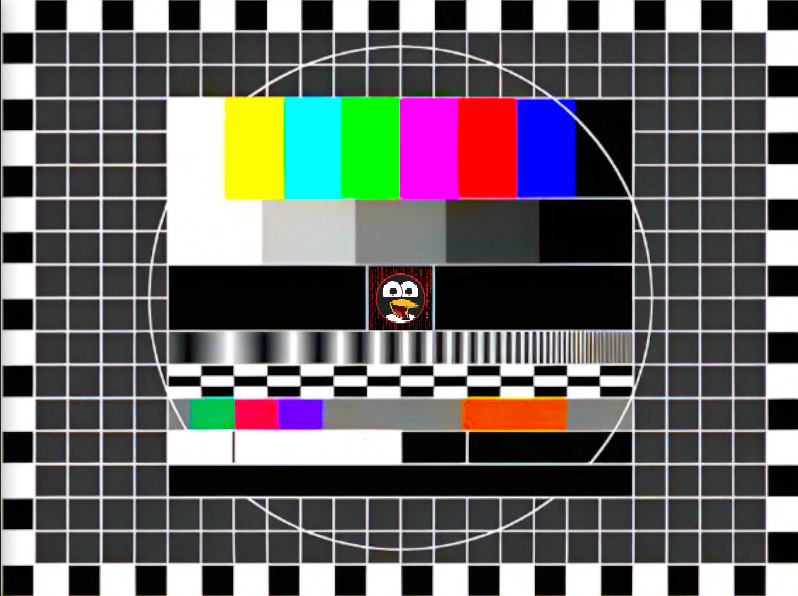
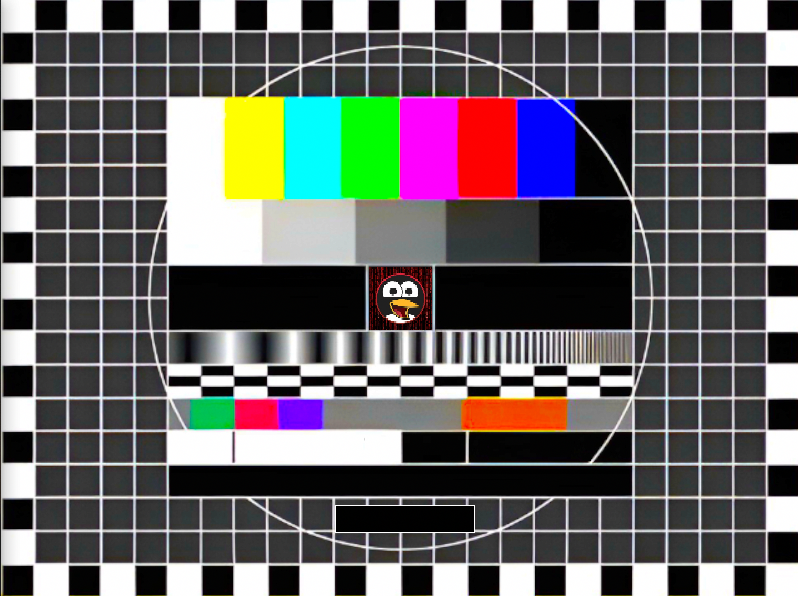
Add files via upload

Changed region(s): [[0.4211, 0.8456, 0.6015, 0.906]]

diff --git a/index.html b/index.html
@@ -60,6 +60,7 @@
       <text x="436" y="454" fill="white" dominant-baseline="middle" text-anchor="middle" font-family="VCR" font-size="28">480i</text>
       <text x="533" y="454" fill="white" dominant-baseline="middle" text-anchor="middle" font-family="VCR" font-size="35">ON AIR</text>
       <text x="400" y="486" fill="white" dominant-baseline="middle" text-anchor="middle" font-family="VCR" font-size="20">BROADCASTING OVER THE AIR ON CHANNEL 31</text>
+      <text x="406" y="525" fill="white" dominant-baseline="middle" text-anchor="middle" font-family="VCR" font-size="15">WWW.VELTRON.NET</text>
     </g>
   </svg>
 </div>

diff --git a/README.md b/README.md
@@ -1,2 +1,2 @@
-# tv-test-card-html
-tv-test-card-html
+# PM5644.Testcard.HTML
+PM5644测试卡的HTML版本（可用于OBS Studio）。
